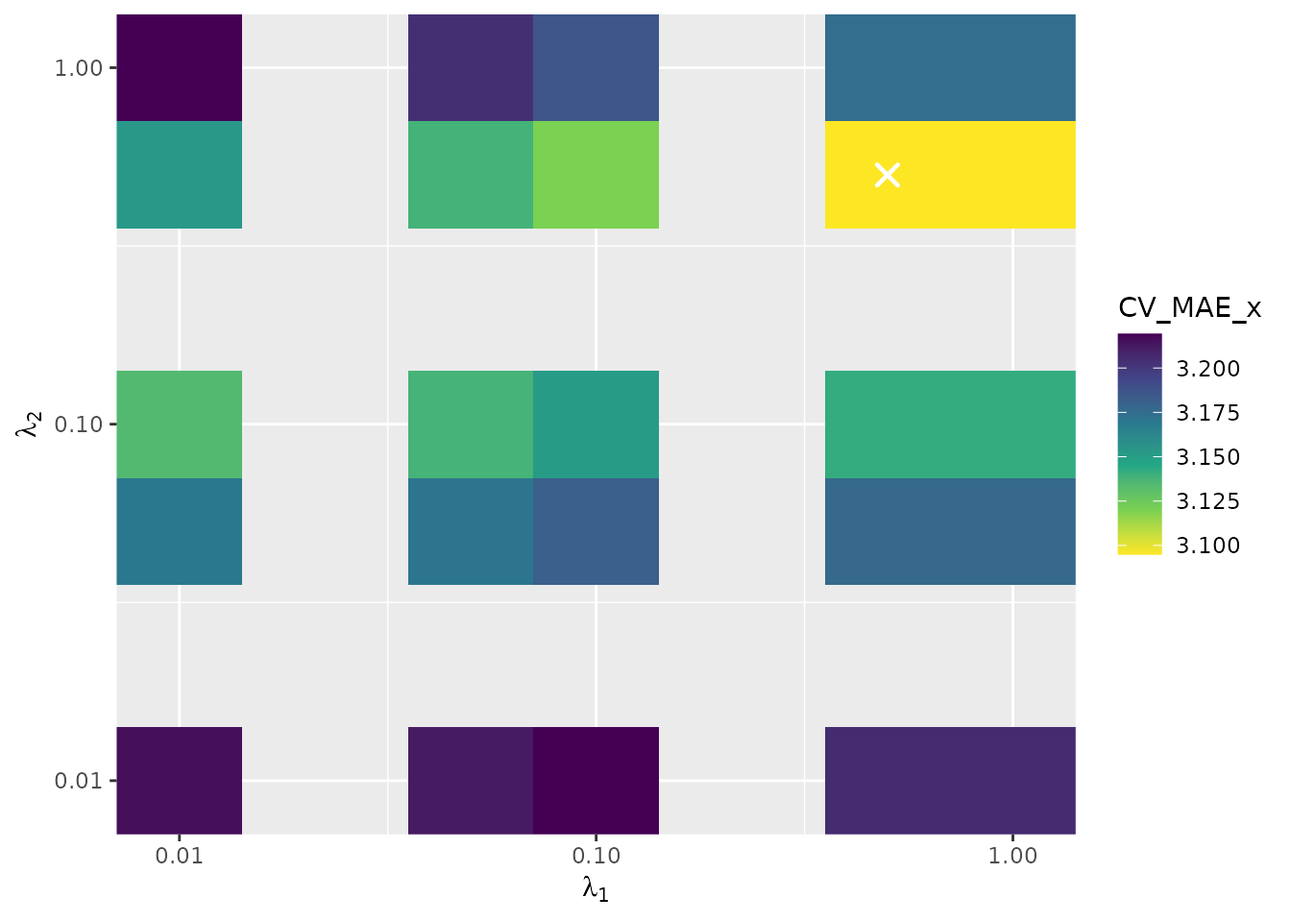
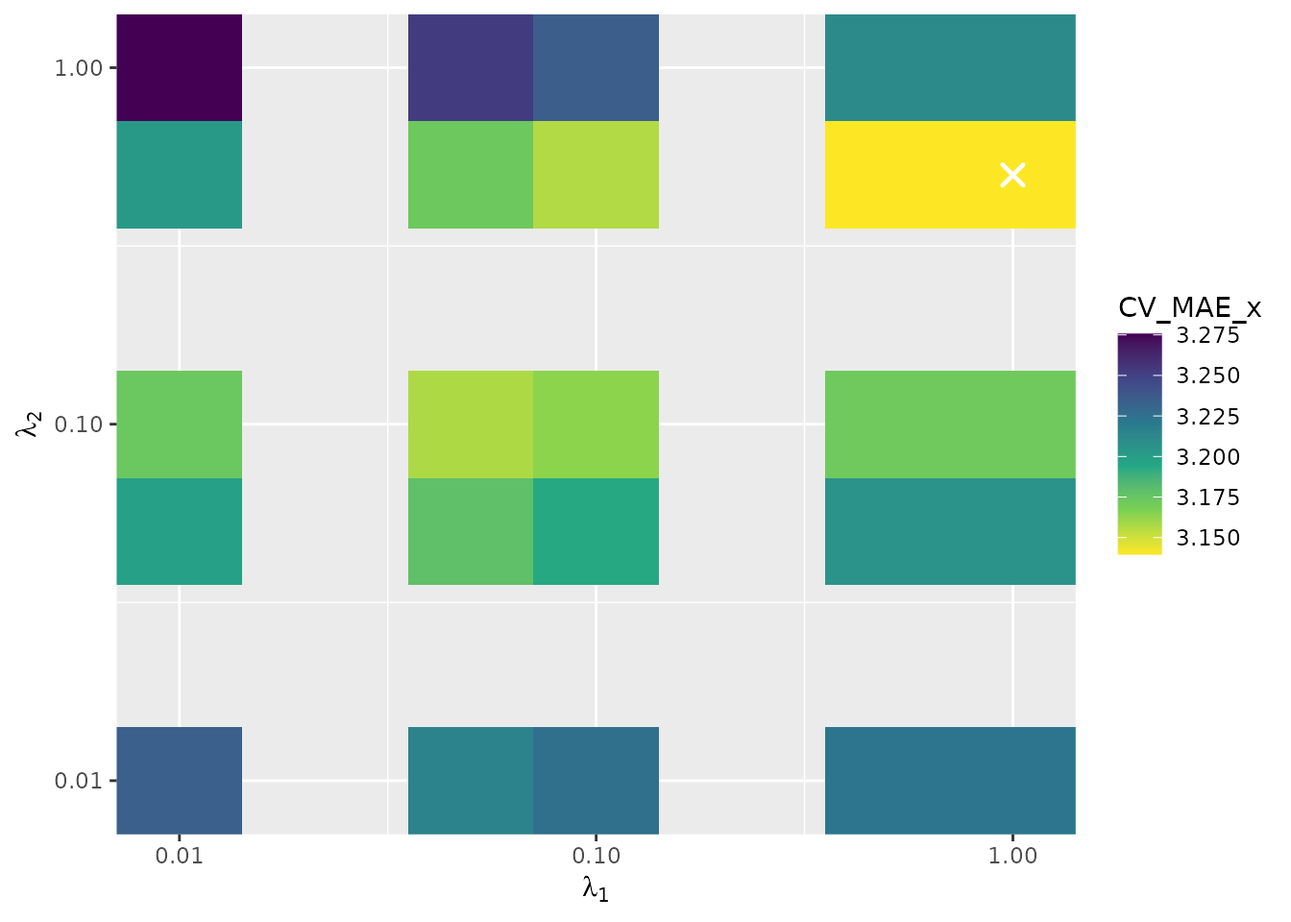
Deploying to gh-pages from @ rajan-shankar/ccreds@253a18a3f22fa6ceb33c2086cdeb8aa4bbe5cde3 🚀

diff --git a/articles/ccreds-workflow.html b/articles/ccreds-workflow.html
@@ -160,18 +160,18 @@ some affect both.</p>
 <span></span>
 <span><span class="va">dat</span></span>
 <span><span class="co">#&gt; <span style="color: #949494;"># A tibble: 200 × 14</span></span></span>
-<span><span class="co">#&gt;     case      y     w     d     z1     z2     z3      z4    z5     z6     z7</span></span>
-<span><span class="co">#&gt;    <span style="color: #949494; font-style: italic;">&lt;int&gt;</span>  <span style="color: #949494; font-style: italic;">&lt;dbl&gt;</span> <span style="color: #949494; font-style: italic;">&lt;dbl&gt;</span> <span style="color: #949494; font-style: italic;">&lt;dbl&gt;</span>  <span style="color: #949494; font-style: italic;">&lt;dbl&gt;</span>  <span style="color: #949494; font-style: italic;">&lt;dbl&gt;</span>  <span style="color: #949494; font-style: italic;">&lt;dbl&gt;</span>   <span style="color: #949494; font-style: italic;">&lt;dbl&gt;</span> <span style="color: #949494; font-style: italic;">&lt;dbl&gt;</span>  <span style="color: #949494; font-style: italic;">&lt;dbl&gt;</span>  <span style="color: #949494; font-style: italic;">&lt;dbl&gt;</span></span></span>
-<span><span class="co">#&gt; <span style="color: #BCBCBC;"> 1</span>     1 176.    9.32     0  1.07   5.09  -<span style="color: #BB0000;">1.76</span>  -<span style="color: #BB0000;">5.49</span>   -<span style="color: #BB0000;">1.21</span> -<span style="color: #BB0000;">6.77</span>  -<span style="color: #BB0000;">6.46</span> </span></span>
-<span><span class="co">#&gt; <span style="color: #BCBCBC;"> 2</span>     2  50.9   4.03     1  3.85   0.857 -<span style="color: #BB0000;">2.32</span>  -<span style="color: #BB0000;">5.36</span>   -<span style="color: #BB0000;">5.48</span> -<span style="color: #BB0000;">3.39</span>  -<span style="color: #BB0000;">2.34</span> </span></span>
-<span><span class="co">#&gt; <span style="color: #BCBCBC;"> 3</span>     3  54.6   3.44     1 -<span style="color: #BB0000;">4.05</span>   1.53  -<span style="color: #BB0000;">4.13</span>   2.95   -<span style="color: #BB0000;">1.12</span> -<span style="color: #BB0000;">1.33</span>  -<span style="color: #BB0000;">4.18</span> </span></span>
-<span><span class="co">#&gt; <span style="color: #BCBCBC;"> 4</span>     4   3.39  3.17     0 -<span style="color: #BB0000;">5.46</span>  -<span style="color: #BB0000;">2.77</span>  -<span style="color: #BB0000;">1.82</span>  -<span style="color: #BB0000;">0.096</span><span style="color: #BB0000; text-decoration: underline;">6</span> -<span style="color: #BB0000;">5.03</span>  1.25  -<span style="color: #BB0000;">1.25</span> </span></span>
-<span><span class="co">#&gt; <span style="color: #BCBCBC;"> 5</span>     5  98.4   7.10     1 -<span style="color: #BB0000;">1.21</span>   2.93  -<span style="color: #BB0000;">1.24</span>  -<span style="color: #BB0000;">5.62</span>   -<span style="color: #BB0000;">1.16</span>  0.253 -<span style="color: #BB0000;">1.52</span> </span></span>
-<span><span class="co">#&gt; <span style="color: #BCBCBC;"> 6</span>     6 171.   12.5      1  2.88   3.54   4.06  -<span style="color: #BB0000;">1.46</span>    1.33  3.93   4.62 </span></span>
-<span><span class="co">#&gt; <span style="color: #BCBCBC;"> 7</span>     7 185.   15.3      1 -<span style="color: #BB0000;">1.69</span>   7.12   4.40   3.00    1.65  0.845 -<span style="color: #BB0000;">0.617</span></span></span>
-<span><span class="co">#&gt; <span style="color: #BCBCBC;"> 8</span>     8 128.    3.56     0  0.582  0.351 -<span style="color: #BB0000;">2.86</span>  -<span style="color: #BB0000;">0.813</span>  -<span style="color: #BB0000;">4.13</span> -<span style="color: #BB0000;">5.91</span>  -<span style="color: #BB0000;">5.39</span> </span></span>
-<span><span class="co">#&gt; <span style="color: #BCBCBC;"> 9</span>     9  85.2   2.65     0  1.64  -<span style="color: #BB0000;">1.65</span>   0.550  0.277   1.14 -<span style="color: #BB0000;">0.174</span> -<span style="color: #BB0000;">3.74</span> </span></span>
-<span><span class="co">#&gt; <span style="color: #BCBCBC;">10</span>    10 256.    9.70     0 -<span style="color: #BB0000;">1.55</span>  -<span style="color: #BB0000;">0.150</span>  3.39   3.62    1.91  1.06   1.28 </span></span>
+<span><span class="co">#&gt;     case      y     w     d     z1     z2     z3     z4     z5      z6     z7</span></span>
+<span><span class="co">#&gt;    <span style="color: #949494; font-style: italic;">&lt;int&gt;</span>  <span style="color: #949494; font-style: italic;">&lt;dbl&gt;</span> <span style="color: #949494; font-style: italic;">&lt;dbl&gt;</span> <span style="color: #949494; font-style: italic;">&lt;dbl&gt;</span>  <span style="color: #949494; font-style: italic;">&lt;dbl&gt;</span>  <span style="color: #949494; font-style: italic;">&lt;dbl&gt;</span>  <span style="color: #949494; font-style: italic;">&lt;dbl&gt;</span>  <span style="color: #949494; font-style: italic;">&lt;dbl&gt;</span>  <span style="color: #949494; font-style: italic;">&lt;dbl&gt;</span>   <span style="color: #949494; font-style: italic;">&lt;dbl&gt;</span>  <span style="color: #949494; font-style: italic;">&lt;dbl&gt;</span></span></span>
+<span><span class="co">#&gt; <span style="color: #BCBCBC;"> 1</span>     1 175.    9.22     0  0.864  5.58  -<span style="color: #BB0000;">2.49</span>  -<span style="color: #BB0000;">4.58</span>  -<span style="color: #BB0000;">2.22</span>  -<span style="color: #BB0000;">5.77</span>   -<span style="color: #BB0000;">7.38</span> </span></span>
+<span><span class="co">#&gt; <span style="color: #BCBCBC;"> 2</span>     2  51.4   4.07     1  3.97   0.563 -<span style="color: #BB0000;">1.88</span>  -<span style="color: #BB0000;">5.91</span>  -<span style="color: #BB0000;">4.88</span>  -<span style="color: #BB0000;">3.98</span>   -<span style="color: #BB0000;">1.80</span> </span></span>
+<span><span class="co">#&gt; <span style="color: #BCBCBC;"> 3</span>     3  57.4   3.67     1 -<span style="color: #BB0000;">3.31</span>  -<span style="color: #BB0000;">0.249</span> -<span style="color: #BB0000;">1.47</span>  -<span style="color: #BB0000;">0.337</span>  2.50  -<span style="color: #BB0000;">4.96</span>   -<span style="color: #BB0000;">0.888</span></span></span>
+<span><span class="co">#&gt; <span style="color: #BCBCBC;"> 4</span>     4   4.85  3.27     0 -<span style="color: #BB0000;">5.07</span>  -<span style="color: #BB0000;">3.71</span>  -<span style="color: #BB0000;">0.419</span> -<span style="color: #BB0000;">1.84</span>  -<span style="color: #BB0000;">3.11</span>  -<span style="color: #BB0000;">0.662</span>   0.492</span></span>
+<span><span class="co">#&gt; <span style="color: #BCBCBC;"> 5</span>     5  98.2   7.09     1 -<span style="color: #BB0000;">1.24</span>   3.01  -<span style="color: #BB0000;">1.35</span>  -<span style="color: #BB0000;">5.48</span>  -<span style="color: #BB0000;">1.32</span>   0.410  -<span style="color: #BB0000;">1.66</span> </span></span>
+<span><span class="co">#&gt; <span style="color: #BCBCBC;"> 6</span>     6 171.   12.4      1  2.81   3.71   3.79  -<span style="color: #BB0000;">1.13</span>   0.975  4.29    4.29 </span></span>
+<span><span class="co">#&gt; <span style="color: #BCBCBC;"> 7</span>     7 187.   15.5      1 -<span style="color: #BB0000;">1.43</span>   6.47   5.36   1.81   2.97  -<span style="color: #BB0000;">0.472</span>   0.580</span></span>
+<span><span class="co">#&gt; <span style="color: #BCBCBC;"> 8</span>     8 131.    3.71     0  1.07  -<span style="color: #BB0000;">0.824</span> -<span style="color: #BB0000;">1.11</span>  -<span style="color: #BB0000;">2.99</span>  -<span style="color: #BB0000;">1.73</span>  -<span style="color: #BB0000;">8.31</span>   -<span style="color: #BB0000;">3.22</span> </span></span>
+<span><span class="co">#&gt; <span style="color: #BCBCBC;"> 9</span>     9  85.1   2.64     0  1.61  -<span style="color: #BB0000;">1.60</span>   0.470  0.377  1.03  -<span style="color: #BB0000;">0.064</span><span style="color: #BB0000; text-decoration: underline;">6</span> -<span style="color: #BB0000;">3.84</span> </span></span>
+<span><span class="co">#&gt; <span style="color: #BCBCBC;">10</span>    10 256.    9.71     0 -<span style="color: #BB0000;">1.53</span>  -<span style="color: #BB0000;">0.207</span>  3.47   3.52   2.03   0.945   1.39 </span></span>
 <span><span class="co">#&gt; <span style="color: #949494;"># ℹ 190 more rows</span></span></span>
 <span><span class="co">#&gt; <span style="color: #949494;"># ℹ 3 more variables: z8 &lt;dbl&gt;, z9 &lt;dbl&gt;, z10 &lt;dbl&gt;</span></span></span></code></pre></div>
 <div class="sourceCode" id="cb3"><pre class="downlit sourceCode r">
@@ -199,16 +199,16 @@ would use a finer grid and potentially run in parallel with
 <span><span class="co">#&gt; <span style="color: #949494;"># A tibble: 25 × 8</span></span></span>
 <span><span class="co">#&gt;    lambda_1 lambda_2 full_fit          CV_MAE_y CV_MAE_y_SE CV_MAE_x CV_MAE_x_SE</span></span>
 <span><span class="co">#&gt;       <span style="color: #949494; font-style: italic;">&lt;dbl&gt;</span>    <span style="color: #949494; font-style: italic;">&lt;dbl&gt;</span> <span style="color: #949494; font-style: italic;">&lt;list&gt;</span>               <span style="color: #949494; font-style: italic;">&lt;dbl&gt;</span>       <span style="color: #949494; font-style: italic;">&lt;dbl&gt;</span>    <span style="color: #949494; font-style: italic;">&lt;dbl&gt;</span>       <span style="color: #949494; font-style: italic;">&lt;dbl&gt;</span></span></span>
-<span><span class="co">#&gt; <span style="color: #BCBCBC;"> 1</span>     0.01     0.01 <span style="color: #949494;">&lt;named list [13]&gt;</span>     35.0        1.74     3.22       0.176</span></span>
-<span><span class="co">#&gt; <span style="color: #BCBCBC;"> 2</span>     0.01     0.05 <span style="color: #949494;">&lt;named list [13]&gt;</span>     35.1        1.61     3.17       0.148</span></span>
-<span><span class="co">#&gt; <span style="color: #BCBCBC;"> 3</span>     0.01     0.1  <span style="color: #949494;">&lt;named list [13]&gt;</span>     35.2        1.63     3.13       0.139</span></span>
-<span><span class="co">#&gt; <span style="color: #BCBCBC;"> 4</span>     0.01     0.5  <span style="color: #949494;">&lt;named list [13]&gt;</span>     36.2        1.69     3.15       0.133</span></span>
-<span><span class="co">#&gt; <span style="color: #BCBCBC;"> 5</span>     0.01     1    <span style="color: #949494;">&lt;named list [13]&gt;</span>     38.6        1.93     3.22       0.220</span></span>
-<span><span class="co">#&gt; <span style="color: #BCBCBC;"> 6</span>     0.05     0.01 <span style="color: #949494;">&lt;named list [13]&gt;</span>     35.7        2.08     3.21       0.176</span></span>
-<span><span class="co">#&gt; <span style="color: #BCBCBC;"> 7</span>     0.05     0.05 <span style="color: #949494;">&lt;named list [13]&gt;</span>     35.9        1.99     3.17       0.143</span></span>
-<span><span class="co">#&gt; <span style="color: #BCBCBC;"> 8</span>     0.05     0.1  <span style="color: #949494;">&lt;named list [13]&gt;</span>     36.2        2.13     3.14       0.129</span></span>
-<span><span class="co">#&gt; <span style="color: #BCBCBC;"> 9</span>     0.05     0.5  <span style="color: #949494;">&lt;named list [13]&gt;</span>     38.0        2.18     3.14       0.132</span></span>
-<span><span class="co">#&gt; <span style="color: #BCBCBC;">10</span>     0.05     1    <span style="color: #949494;">&lt;named list [13]&gt;</span>     41.2        2.37     3.20       0.225</span></span>
+<span><span class="co">#&gt; <span style="color: #BCBCBC;"> 1</span>     0.01     0.01 <span style="color: #949494;">&lt;named list [13]&gt;</span>     35.0        1.73     3.23       0.182</span></span>
+<span><span class="co">#&gt; <span style="color: #BCBCBC;"> 2</span>     0.01     0.05 <span style="color: #949494;">&lt;named list [13]&gt;</span>     35.0        1.75     3.20       0.181</span></span>
+<span><span class="co">#&gt; <span style="color: #BCBCBC;"> 3</span>     0.01     0.1  <span style="color: #949494;">&lt;named list [13]&gt;</span>     35.1        1.86     3.17       0.173</span></span>
+<span><span class="co">#&gt; <span style="color: #BCBCBC;"> 4</span>     0.01     0.5  <span style="color: #949494;">&lt;named list [13]&gt;</span>     36.3        2.07     3.20       0.154</span></span>
+<span><span class="co">#&gt; <span style="color: #BCBCBC;"> 5</span>     0.01     1    <span style="color: #949494;">&lt;named list [13]&gt;</span>     39.0        1.72     3.28       0.230</span></span>
+<span><span class="co">#&gt; <span style="color: #BCBCBC;"> 6</span>     0.05     0.01 <span style="color: #949494;">&lt;named list [13]&gt;</span>     35.6        2.12     3.21       0.179</span></span>
+<span><span class="co">#&gt; <span style="color: #BCBCBC;"> 7</span>     0.05     0.05 <span style="color: #949494;">&lt;named list [13]&gt;</span>     35.6        2.29     3.18       0.172</span></span>
+<span><span class="co">#&gt; <span style="color: #BCBCBC;"> 8</span>     0.05     0.1  <span style="color: #949494;">&lt;named list [13]&gt;</span>     35.7        2.49     3.16       0.168</span></span>
+<span><span class="co">#&gt; <span style="color: #BCBCBC;"> 9</span>     0.05     0.5  <span style="color: #949494;">&lt;named list [13]&gt;</span>     37.8        2.55     3.17       0.151</span></span>
+<span><span class="co">#&gt; <span style="color: #BCBCBC;">10</span>     0.05     1    <span style="color: #949494;">&lt;named list [13]&gt;</span>     41.5        2.18     3.25       0.233</span></span>
 <span><span class="co">#&gt; <span style="color: #949494;"># ℹ 15 more rows</span></span></span>
 <span><span class="co">#&gt; <span style="color: #949494;"># ℹ 1 more variable: time &lt;drtn&gt;</span></span></span></code></pre></div>
 </div>
@@ -240,16 +240,16 @@ truth:</p>
 <span><span class="co">#&gt; <span style="color: #949494;"># A tibble: 10 × 3</span></span></span>
 <span><span class="co">#&gt;    feature true_beta estimated_beta</span></span>
 <span><span class="co">#&gt;    <span style="color: #949494; font-style: italic;">&lt;chr&gt;</span>       <span style="color: #949494; font-style: italic;">&lt;dbl&gt;</span>          <span style="color: #949494; font-style: italic;">&lt;dbl&gt;</span></span></span>
-<span><span class="co">#&gt; <span style="color: #BCBCBC;"> 1</span> z1              4           3.62</span></span>
-<span><span class="co">#&gt; <span style="color: #BCBCBC;"> 2</span> z2              4           3.58</span></span>
-<span><span class="co">#&gt; <span style="color: #BCBCBC;"> 3</span> z3              2           2.02</span></span>
+<span><span class="co">#&gt; <span style="color: #BCBCBC;"> 1</span> z1              4           3.53</span></span>
+<span><span class="co">#&gt; <span style="color: #BCBCBC;"> 2</span> z2              4           3.77</span></span>
+<span><span class="co">#&gt; <span style="color: #BCBCBC;"> 3</span> z3              2           1.89</span></span>
 <span><span class="co">#&gt; <span style="color: #BCBCBC;"> 4</span> z4              0           0   </span></span>
 <span><span class="co">#&gt; <span style="color: #BCBCBC;"> 5</span> z5              0           0   </span></span>
 <span><span class="co">#&gt; <span style="color: #BCBCBC;"> 6</span> z6              0           0   </span></span>
 <span><span class="co">#&gt; <span style="color: #BCBCBC;"> 7</span> z7              0           0   </span></span>
 <span><span class="co">#&gt; <span style="color: #BCBCBC;"> 8</span> z8              0           0   </span></span>
-<span><span class="co">#&gt; <span style="color: #BCBCBC;"> 9</span> z9             -<span style="color: #BB0000;">2</span>          -<span style="color: #BB0000;">2.38</span></span></span>
-<span><span class="co">#&gt; <span style="color: #BCBCBC;">10</span> z10            -<span style="color: #BB0000;">4</span>          -<span style="color: #BB0000;">3.32</span></span></span>
+<span><span class="co">#&gt; <span style="color: #BCBCBC;"> 9</span> z9             -<span style="color: #BB0000;">2</span>          -<span style="color: #BB0000;">2.42</span></span></span>
+<span><span class="co">#&gt; <span style="color: #BCBCBC;">10</span> z10            -<span style="color: #BB0000;">4</span>          -<span style="color: #BB0000;">3.27</span></span></span>
 <span></span>
 <span><span class="co"># Censored-covariate coefficients</span></span>
 <span><span class="fu"><a href="https://tibble.tidyverse.org/reference/tibble.html" class="external-link">tibble</a></span><span class="op">(</span></span>
@@ -260,16 +260,16 @@ truth:</p>
 <span><span class="co">#&gt; <span style="color: #949494;"># A tibble: 10 × 3</span></span></span>
 <span><span class="co">#&gt;    feature true_gamma estimated_gamma</span></span>
 <span><span class="co">#&gt;    <span style="color: #949494; font-style: italic;">&lt;chr&gt;</span>        <span style="color: #949494; font-style: italic;">&lt;dbl&gt;</span>           <span style="color: #949494; font-style: italic;">&lt;dbl&gt;</span></span></span>
-<span><span class="co">#&gt; <span style="color: #BCBCBC;"> 1</span> z1            0            0.003<span style="text-decoration: underline;">02</span></span></span>
-<span><span class="co">#&gt; <span style="color: #BCBCBC;"> 2</span> z2            0.04         0.033<span style="text-decoration: underline;">5</span> </span></span>
-<span><span class="co">#&gt; <span style="color: #BCBCBC;"> 3</span> z3            0.04         0.072<span style="text-decoration: underline;">9</span> </span></span>
-<span><span class="co">#&gt; <span style="color: #BCBCBC;"> 4</span> z4            0.02         0.003<span style="text-decoration: underline;">64</span></span></span>
-<span><span class="co">#&gt; <span style="color: #BCBCBC;"> 5</span> z5            0.02         0.034<span style="text-decoration: underline;">3</span> </span></span>
-<span><span class="co">#&gt; <span style="color: #BCBCBC;"> 6</span> z6            0           -<span style="color: #BB0000;">0.023</span><span style="color: #BB0000; text-decoration: underline;">1</span> </span></span>
-<span><span class="co">#&gt; <span style="color: #BCBCBC;"> 7</span> z7            0            0.016<span style="text-decoration: underline;">7</span> </span></span>
-<span><span class="co">#&gt; <span style="color: #BCBCBC;"> 8</span> z8            0           -<span style="color: #BB0000;">0.019</span><span style="color: #BB0000; text-decoration: underline;">5</span> </span></span>
-<span><span class="co">#&gt; <span style="color: #BCBCBC;"> 9</span> z9            0            0.004<span style="text-decoration: underline;">02</span></span></span>
-<span><span class="co">#&gt; <span style="color: #BCBCBC;">10</span> z10           0           -<span style="color: #BB0000;">0.004</span><span style="color: #BB0000; text-decoration: underline;">18</span></span></span></code></pre></div>
+<span><span class="co">#&gt; <span style="color: #BCBCBC;"> 1</span> z1            0           -<span style="color: #BB0000;">0.003</span><span style="color: #BB0000; text-decoration: underline;">67</span></span></span>
+<span><span class="co">#&gt; <span style="color: #BCBCBC;"> 2</span> z2            0.04         0.054<span style="text-decoration: underline;">1</span> </span></span>
+<span><span class="co">#&gt; <span style="color: #BCBCBC;"> 3</span> z3            0.04         0.039<span style="text-decoration: underline;">8</span> </span></span>
+<span><span class="co">#&gt; <span style="color: #BCBCBC;"> 4</span> z4            0.02         0.044<span style="text-decoration: underline;">1</span> </span></span>
+<span><span class="co">#&gt; <span style="color: #BCBCBC;"> 5</span> z5            0.02        -<span style="color: #BB0000;">0.008</span><span style="color: #BB0000; text-decoration: underline;">3</span> </span></span>
+<span><span class="co">#&gt; <span style="color: #BCBCBC;"> 6</span> z6            0            0.018<span style="text-decoration: underline;">0</span> </span></span>
+<span><span class="co">#&gt; <span style="color: #BCBCBC;"> 7</span> z7            0           -<span style="color: #BB0000;">0.019</span><span style="color: #BB0000; text-decoration: underline;">5</span> </span></span>
+<span><span class="co">#&gt; <span style="color: #BCBCBC;"> 8</span> z8            0            0.009<span style="text-decoration: underline;">05</span></span></span>
+<span><span class="co">#&gt; <span style="color: #BCBCBC;"> 9</span> z9            0           -<span style="color: #BB0000;">0.013</span><span style="color: #BB0000; text-decoration: underline;">5</span> </span></span>
+<span><span class="co">#&gt; <span style="color: #BCBCBC;">10</span> z10           0            0.001<span style="text-decoration: underline;">44</span></span></span></code></pre></div>
 </div>
 <div class="section level2">
 <h2 id="visualise-cross-validation-heatmap">Visualise: Cross-validation heatmap<a class="anchor" aria-label="anchor" href="#visualise-cross-validation-heatmap"></a>

diff --git a/index.html b/index.html
@@ -5,12 +5,12 @@
 <meta charset="utf-8">
 <meta http-equiv="X-UA-Compatible" content="IE=edge">
 <meta name="viewport" content="width=device-width, initial-scale=1, shrink-to-fit=no">
-<title>Feature Selection in Censored-Covariate Regression Models • ccreds</title>
+<title>Censored-Covariate Regression with Dual Selection • ccreds</title>
 <script src="deps/jquery-3.6.0/jquery-3.6.0.min.js"></script><meta name="viewport" content="width=device-width, initial-scale=1, shrink-to-fit=no">
 <link href="deps/bootstrap-5.3.8/bootstrap.min.css" rel="stylesheet">
 <script src="deps/bootstrap-5.3.8/bootstrap.bundle.min.js"></script><link href="deps/font-awesome-6.5.2/css/all.min.css" rel="stylesheet">
 <link href="deps/font-awesome-6.5.2/css/v4-shims.min.css" rel="stylesheet">
-<script src="deps/headroom-0.11.0/headroom.min.js"></script><script src="deps/headroom-0.11.0/jQuery.headroom.min.js"></script><script src="deps/bootstrap-toc-1.0.1/bootstrap-toc.min.js"></script><script src="deps/clipboard.js-2.0.11/clipboard.min.js"></script><script src="deps/search-1.0.0/autocomplete.jquery.min.js"></script><script src="deps/search-1.0.0/fuse.min.js"></script><script src="deps/search-1.0.0/mark.min.js"></script><!-- pkgdown --><script src="pkgdown.js"></script><meta property="og:title" content="Feature Selection in Censored-Covariate Regression Models">
+<script src="deps/headroom-0.11.0/headroom.min.js"></script><script src="deps/headroom-0.11.0/jQuery.headroom.min.js"></script><script src="deps/bootstrap-toc-1.0.1/bootstrap-toc.min.js"></script><script src="deps/clipboard.js-2.0.11/clipboard.min.js"></script><script src="deps/search-1.0.0/autocomplete.jquery.min.js"></script><script src="deps/search-1.0.0/fuse.min.js"></script><script src="deps/search-1.0.0/mark.min.js"></script><!-- pkgdown --><script src="pkgdown.js"></script><meta property="og:title" content="Censored-Covariate Regression with Dual Selection">
 <meta name="description" content="Implements a penalised observed-data log-likelihood method for feature selection in censored-covariate regression models. Uses two separate L1 penalties to select features associated with the response variable and features associated with the censored covariate, via an Expectation-Minimisation (EM) algorithm. Tuning parameters are chosen by cross-validation.">
 <meta property="og:description" content="Implements a penalised observed-data log-likelihood method for feature selection in censored-covariate regression models. Uses two separate L1 penalties to select features associated with the response variable and features associated with the censored covariate, via an Expectation-Minimisation (EM) algorithm. Tuning parameters are chosen by cross-validation.">
 </head>
@@ -54,11 +54,12 @@
   <main id="main" class="col-md-9"><div class="section level1">
 <div class="page-header"><h1 id="ccreds">ccreds<a class="anchor" aria-label="anchor" href="#ccreds"></a>
 </h1></div>
-<p>Feature selection in censored-covariate regression models, as described in:</p>
+<!-- badges: start -->
+<!-- badges: end -->
+<p>ccreds is an R package for performing Censored-Covariate Regression with Dual Selection. ccreds allows users to fit penalised censored-covariate regression models with two separate L1 penalties — one for selecting features associated with the response variable and one for selecting features associated with the censored covariate. Tuning parameters are selected via cross-validation. Functions for producing visual diagnostics, such as cross-validation heat maps, coefficient paths, and plotting estimated densities, are provided.</p>
 <blockquote>
 <p>Shankar R, Garcia T, Ormerod J, Tarr G (2026). “Feature Selection in Censored-Covariate Regression Models.” <em>Statistics in Medicine</em>.</p>
 </blockquote>
-<p>The package fits a penalised censored-covariate regression model using an EM algorithm with two separate L1 penalties — one for features associated with the response variable and one for features associated with the censored covariate. Tuning parameters are selected via cross-validation.</p>
 <div class="section level2">
 <h2 id="installation">Installation<a class="anchor" aria-label="anchor" href="#installation"></a>
 </h2>
@@ -147,9 +148,7 @@
 <div class="license">
 <h2 data-toc-skip>License</h2>
 <ul class="list-unstyled">
-<li>
-<a href="https://opensource.org/licenses/mit-license.php" class="external-link">MIT</a> + file <a href="LICENSE-text.html">LICENSE</a>
-</li>
+<li><a href="https://www.r-project.org/Licenses/GPL-3" class="external-link">GPL-3</a></li>
 </ul>
 </div>
 

diff --git a/authors.html b/authors.html
@@ -60,11 +60,11 @@
       <p><small class="dont-index">Source: <a href="https://github.com/rajan-shankar/ccreds/blob/main/DESCRIPTION" class="external-link"><code>DESCRIPTION</code></a></small></p>
 
       <p>Shankar R, Garcia T, Ormerod J, Tarr G (2026).
-<em>ccreds: Feature Selection in Censored-Covariate Regression Models</em>.
+<em>ccreds: Censored-Covariate Regression with Dual Selection</em>.
 R package version 0.1.0, <a href="https://rajan-shankar.github.io/ccreds/">https://rajan-shankar.github.io/ccreds/</a>.
 </p>
       <pre>@Manual{,
-  title = {ccreds: Feature Selection in Censored-Covariate Regression Models},
+  title = {ccreds: Censored-Covariate Regression with Dual Selection},
   author = {Rajan Shankar and Tanya Garcia and John Ormerod and Garth Tarr},
   year = {2026},
   note = {R package version 0.1.0},

diff --git a/LICENSE-text.html b/LICENSE-text.html
@@ -35,8 +35,19 @@
 
     </div>
 
-<pre>YEAR: 2026
-COPYRIGHT HOLDER: Rajan Shankar
+<pre>Copyright (c) 2026 Rajan Shankar
+
+This program is free software: you can redistribute it and/or modify
+it under the terms of the GNU General Public License as published by
+the Free Software Foundation, version 3 of the License.
+
+This program is distributed in the hope that it will be useful,
+but WITHOUT ANY WARRANTY; without even the implied warranty of
+MERCHANTABILITY or FITNESS FOR A PARTICULAR PURPOSE. See the
+GNU General Public License for more details.
+
+You should have received a copy of the GNU General Public License
+along with this program. If not, see &lt;https://www.gnu.org/licenses/&gt;.
 </pre>
 
   </main></div>

diff --git a/articles/ccreds-workflow.md b/articles/ccreds-workflow.md
@@ -100,18 +100,18 @@ dat <- tibble(
 
 dat
 #> # A tibble: 200 × 14
-#>     case      y     w     d     z1     z2     z3      z4    z5     z6     z7
-#>    <int>  <dbl> <dbl> <dbl>  <dbl>  <dbl>  <dbl>   <dbl> <dbl>  <dbl>  <dbl>
-#>  1     1 176.    9.32     0  1.07   5.09  -1.76  -5.49   -1.21 -6.77  -6.46 
-#>  2     2  50.9   4.03     1  3.85   0.857 -2.32  -5.36   -5.48 -3.39  -2.34 
-#>  3     3  54.6   3.44     1 -4.05   1.53  -4.13   2.95   -1.12 -1.33  -4.18 
-#>  4     4   3.39  3.17     0 -5.46  -2.77  -1.82  -0.0966 -5.03  1.25  -1.25 
-#>  5     5  98.4   7.10     1 -1.21   2.93  -1.24  -5.62   -1.16  0.253 -1.52 
-#>  6     6 171.   12.5      1  2.88   3.54   4.06  -1.46    1.33  3.93   4.62 
-#>  7     7 185.   15.3      1 -1.69   7.12   4.40   3.00    1.65  0.845 -0.617
-#>  8     8 128.    3.56     0  0.582  0.351 -2.86  -0.813  -4.13 -5.91  -5.39 
-#>  9     9  85.2   2.65     0  1.64  -1.65   0.550  0.277   1.14 -0.174 -3.74 
-#> 10    10 256.    9.70     0 -1.55  -0.150  3.39   3.62    1.91  1.06   1.28 
+#>     case      y     w     d     z1     z2     z3     z4     z5      z6     z7
+#>    <int>  <dbl> <dbl> <dbl>  <dbl>  <dbl>  <dbl>  <dbl>  <dbl>   <dbl>  <dbl>
+#>  1     1 175.    9.22     0  0.864  5.58  -2.49  -4.58  -2.22  -5.77   -7.38 
+#>  2     2  51.4   4.07     1  3.97   0.563 -1.88  -5.91  -4.88  -3.98   -1.80 
+#>  3     3  57.4   3.67     1 -3.31  -0.249 -1.47  -0.337  2.50  -4.96   -0.888
+#>  4     4   4.85  3.27     0 -5.07  -3.71  -0.419 -1.84  -3.11  -0.662   0.492
+#>  5     5  98.2   7.09     1 -1.24   3.01  -1.35  -5.48  -1.32   0.410  -1.66 
+#>  6     6 171.   12.4      1  2.81   3.71   3.79  -1.13   0.975  4.29    4.29 
+#>  7     7 187.   15.5      1 -1.43   6.47   5.36   1.81   2.97  -0.472   0.580
+#>  8     8 131.    3.71     0  1.07  -0.824 -1.11  -2.99  -1.73  -8.31   -3.22 
+#>  9     9  85.1   2.64     0  1.61  -1.60   0.470  0.377  1.03  -0.0646 -3.84 
+#> 10    10 256.    9.71     0 -1.53  -0.207  3.47   3.52   2.03   0.945   1.39 
 #> # ℹ 190 more rows
 #> # ℹ 3 more variables: z8 <dbl>, z9 <dbl>, z10 <dbl>
 ```
@@ -143,16 +143,16 @@ results
 #> # A tibble: 25 × 8
 #>    lambda_1 lambda_2 full_fit          CV_MAE_y CV_MAE_y_SE CV_MAE_x CV_MAE_x_SE
 #>       <dbl>    <dbl> <list>               <dbl>       <dbl>    <dbl>       <dbl>
-#>  1     0.01     0.01 <named list [13]>     35.0        1.74     3.22       0.176
-#>  2     0.01     0.05 <named list [13]>     35.1        1.61     3.17       0.148
-#>  3     0.01     0.1  <named list [13]>     35.2        1.63     3.13       0.139
-#>  4     0.01     0.5  <named list [13]>     36.2        1.69     3.15       0.133
-#>  5     0.01     1    <named list [13]>     38.6        1.93     3.22       0.220
-#>  6     0.05     0.01 <named list [13]>     35.7        2.08     3.21       0.176
-#>  7     0.05     0.05 <named list [13]>     35.9        1.99     3.17       0.143
-#>  8     0.05     0.1  <named list [13]>     36.2        2.13     3.14       0.129
-#>  9     0.05     0.5  <named list [13]>     38.0        2.18     3.14       0.132
-#> 10     0.05     1    <named list [13]>     41.2        2.37     3.20       0.225
+#>  1     0.01     0.01 <named list [13]>     35.0        1.73     3.23       0.182
+#>  2     0.01     0.05 <named list [13]>     35.0        1.75     3.20       0.181
+#>  3     0.01     0.1  <named list [13]>     35.1        1.86     3.17       0.173
+#>  4     0.01     0.5  <named list [13]>     36.3        2.07     3.20       0.154
+#>  5     0.01     1    <named list [13]>     39.0        1.72     3.28       0.230
+#>  6     0.05     0.01 <named list [13]>     35.6        2.12     3.21       0.179
+#>  7     0.05     0.05 <named list [13]>     35.6        2.29     3.18       0.172
+#>  8     0.05     0.1  <named list [13]>     35.7        2.49     3.16       0.168
+#>  9     0.05     0.5  <named list [13]>     37.8        2.55     3.17       0.151
+#> 10     0.05     1    <named list [13]>     41.5        2.18     3.25       0.233
 #> # ℹ 15 more rows
 #> # ℹ 1 more variable: time <drtn>
 ```
@@ -187,16 +187,16 @@ tibble(
 #> # A tibble: 10 × 3
 #>    feature true_beta estimated_beta
 #>    <chr>       <dbl>          <dbl>
-#>  1 z1              4           3.62
-#>  2 z2              4           3.58
-#>  3 z3              2           2.02
+#>  1 z1              4           3.53
+#>  2 z2              4           3.77
+#>  3 z3              2           1.89
 #>  4 z4              0           0   
 #>  5 z5              0           0   
 #>  6 z6              0           0   
 #>  7 z7              0           0   
 #>  8 z8              0           0   
-#>  9 z9             -2          -2.38
-#> 10 z10            -4          -3.32
+#>  9 z9             -2          -2.42
+#> 10 z10            -4          -3.27
 
 # Censored-covariate coefficients
 tibble(
@@ -207,16 +207,16 @@ tibble(
 #> # A tibble: 10 × 3
 #>    feature true_gamma estimated_gamma
 #>    <chr>        <dbl>           <dbl>
-#>  1 z1            0            0.00302
-#>  2 z2            0.04         0.0335 
-#>  3 z3            0.04         0.0729 
-#>  4 z4            0.02         0.00364
-#>  5 z5            0.02         0.0343 
-#>  6 z6            0           -0.0231 
-#>  7 z7            0            0.0167 
-#>  8 z8            0           -0.0195 
-#>  9 z9            0            0.00402
-#> 10 z10           0           -0.00418
+#>  1 z1            0           -0.00367
+#>  2 z2            0.04         0.0541 
+#>  3 z3            0.04         0.0398 
+#>  4 z4            0.02         0.0441 
+#>  5 z5            0.02        -0.0083 
+#>  6 z6            0            0.0180 
+#>  7 z7            0           -0.0195 
+#>  8 z8            0            0.00905
+#>  9 z9            0           -0.0135 
+#> 10 z10           0            0.00144
 ```
 
 ## Visualise: Cross-validation heatmap

diff --git a/index.md b/index.md
@@ -1,16 +1,16 @@
 # ccreds
 
-Feature selection in censored-covariate regression models, as described
-in:
+ccreds is an R package for performing Censored-Covariate Regression with
+Dual Selection. ccreds allows users to fit penalised censored-covariate
+regression models with two separate L1 penalties — one for selecting
+features associated with the response variable and one for selecting
+features associated with the censored covariate. Tuning parameters are
+selected via cross-validation. Functions for producing visual
+diagnostics, such as cross-validation heat maps, coefficient paths, and
+plotting estimated densities, are provided.
 
 > Shankar R, Garcia T, Ormerod J, Tarr G (2026). “Feature Selection in
 > Censored-Covariate Regression Models.” *Statistics in Medicine*.
-
-The package fits a penalised censored-covariate regression model using
-an EM algorithm with two separate L1 penalties — one for features
-associated with the response variable and one for features associated
-with the censored covariate. Tuning parameters are selected via
-cross-validation.
 
 ## Installation
 

diff --git a/authors.md b/authors.md
@@ -15,12 +15,12 @@
 Source:
 [`DESCRIPTION`](https://github.com/rajan-shankar/ccreds/blob/main/DESCRIPTION)
 
-Shankar R, Garcia T, Ormerod J, Tarr G (2026). *ccreds: Feature
-Selection in Censored-Covariate Regression Models*. R package version
+Shankar R, Garcia T, Ormerod J, Tarr G (2026). *ccreds:
+Censored-Covariate Regression with Dual Selection*. R package version
 0.1.0, <https://rajan-shankar.github.io/ccreds/>.
 
     @Manual{,
-      title = {ccreds: Feature Selection in Censored-Covariate Regression Models},
+      title = {ccreds: Censored-Covariate Regression with Dual Selection},
       author = {Rajan Shankar and Tanya Garcia and John Ormerod and Garth Tarr},
       year = {2026},
       note = {R package version 0.1.0},

diff --git a/LICENSE-text.md b/LICENSE-text.md
@@ -1,4 +1,15 @@
 # License
 
-    YEAR: 2026
-    COPYRIGHT HOLDER: Rajan Shankar
+    Copyright (c) 2026 Rajan Shankar
+
+    This program is free software: you can redistribute it and/or modify
+    it under the terms of the GNU General Public License as published by
+    the Free Software Foundation, version 3 of the License.
+
+    This program is distributed in the hope that it will be useful,
+    but WITHOUT ANY WARRANTY; without even the implied warranty of
+    MERCHANTABILITY or FITNESS FOR A PARTICULAR PURPOSE. See the
+    GNU General Public License for more details.
+
+    You should have received a copy of the GNU General Public License
+    along with this program. If not, see <https://www.gnu.org/licenses/>.
